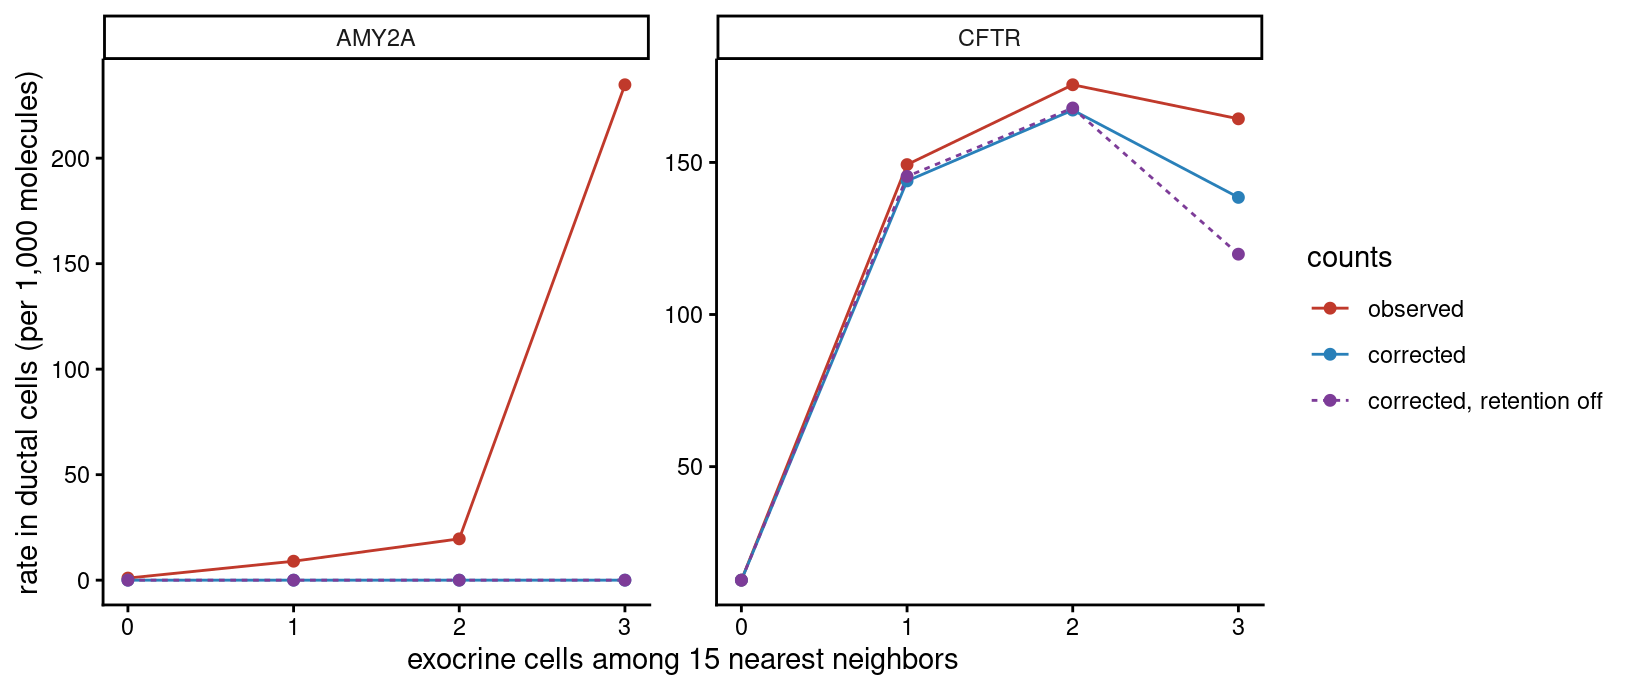
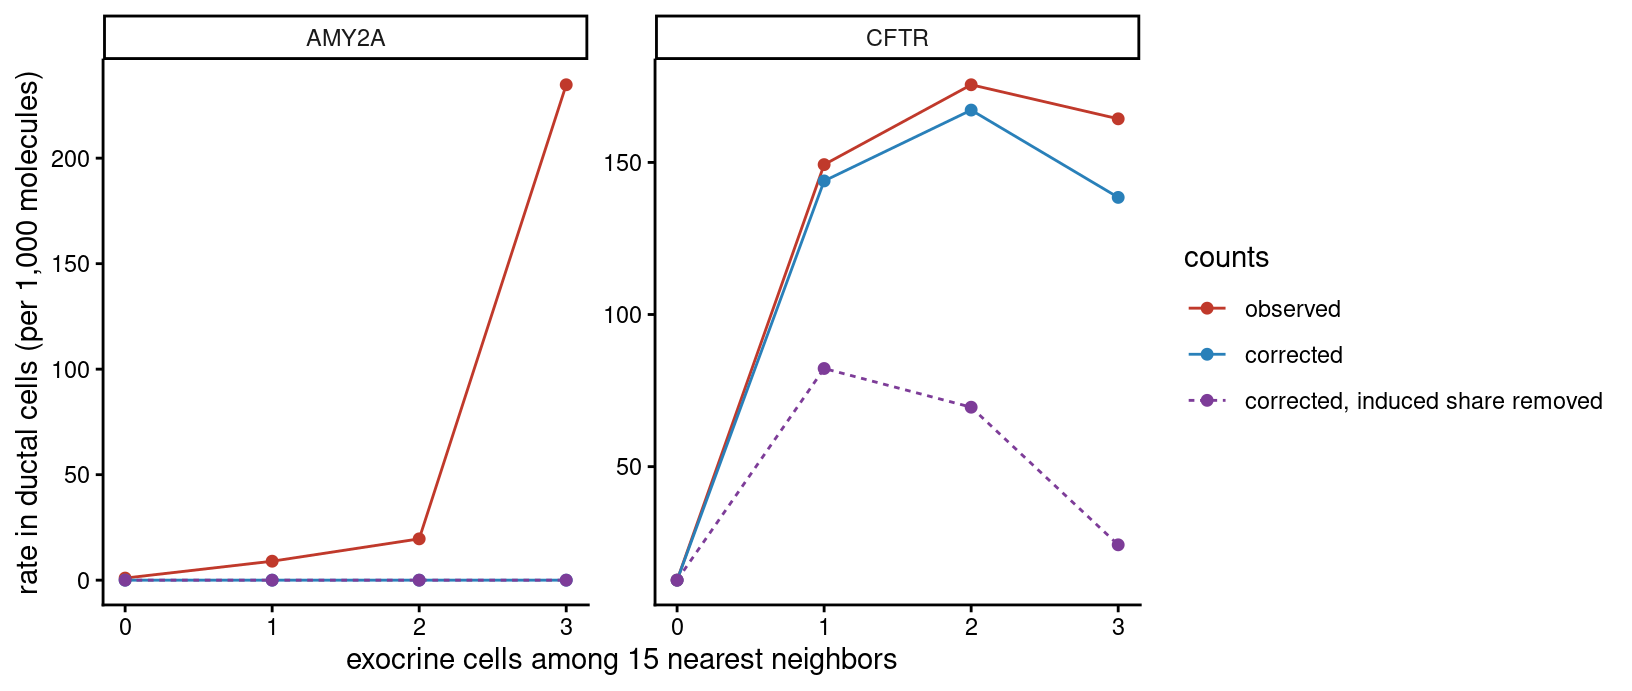
Pancreas generative examples on the fit-then-correct API

diff --git a/examples/xenium_pancreas_membrane_377_full/pancreas_generative.md b/examples/xenium_pancreas_membrane_377_full/pancreas_generative.md
@@ -34,7 +34,7 @@ annotation <- read.csv(file.path("annotations", "annotation.csv.gz"))
 cell_annotation <- setNames(annotation$merged_annotation, annotation$cell_id)
 
 ds <- cellAdmix("data", output_dir = "out", annotation = cell_annotation)
-fit <- ds$fit(nmf_variant = "invsqrt_kl")
+nmf_fit <- ds$fit(nmf_variant = "invsqrt_kl")
 ```
 
     ## Reusing cached run fit_manual_rank9_invsqrt_kl (parameters match)
@@ -47,7 +47,7 @@ using the rise of source-marker content with the number of source-type
 neighbors:
 
 ``` r
-audit <- fit$audit_admixture()
+audit <- nmf_fit$audit_admixture()
 ```
 
     ## Excluded 23 likely induced genes from marker panels (exposure-linked excess far above the source-profile expectation): ACTG2, ADAMTS1, APCDD1, APOLD1, BASP1, C5orf46, CA4, CAVIN1
@@ -95,21 +95,26 @@ ggplot(by_source, aes(reorder(source, admixed_molecules),
 
 ## Correcting with the generative model
 
-One call fits the model on all detected pairs (about twenty seconds on
-this dataset):
+The model is fitted on the audit’s detected pairs; the NMF fit is passed
+only to initialize the model’s expression programs from its
+factor-labeled molecules (`init = "clusters"` or `init = "pseudobulk"`
+fit without an NMF fit, with nearly identical results). The correction
+then derives from the fitted model:
 
 ``` r
-correction <- audit$correct_generative(num_threads = 8)
-correction
+model <- audit$fit_generative(init = nmf_fit, num_threads = 8)
+model
 ```
 
-    ## cellAdmix generative correction
+    ## cellAdmix generative model
     ##   pairs: 39 
-    ##   removed molecules (expected): 1,082,659 
-    ##   induced genes retained: 28
+    ##   induced genes retained: 28 
+    ##   removed molecules (expected): 1,193,699 
+    ##   initialization: nmf_factors
 
 ``` r
-before <- fit$counts()
+correction <- model$correct()
+before <- nmf_fit$counts()
 after <- correction$counts()
 ```
 
@@ -141,8 +146,8 @@ exposure as the exocrine contamination share grows, with smaller
 contributions from the other bordering types and the ambient background:
 
 ``` r
-comp_all <- correction$composition(target = "Ductal/tumor epithelial")
-cells_xy <- fit$cell_factors()
+comp_all <- model$composition(target = "Ductal/tumor epithelial")
+cells_xy <- nmf_fit$cell_factors()
 expo <- setNames(
   cellAdmixCore:::.celladmix_source_exposure_counts(
     cells_xy, cell_annotation, 15L)$counts[, "Exocrine epithelial"],
@@ -181,7 +186,7 @@ half exocrine content, while the ductal/tumor mass itself is nearly
 clean:
 
 ``` r
-comp <- correction$composition("Exocrine epithelial",
+comp <- model$composition("Exocrine epithelial",
   "Ductal/tumor epithelial")
 xy <- cells_xy[match(comp$cell_id, as.character(cells_xy$cell_id)), ]
 ggplot(cbind(comp, x = xy$x, y = xy$y), aes(x, y,
@@ -227,7 +232,7 @@ switched on themselves. On this tissue the retained set is led by the
 duct-cell program that ductal cells activate at acinar interfaces:
 
 ``` r
-induced <- correction$induced
+induced <- model$induced
 head(induced[order(-induced$excess),
   c("source", "target", "gene", "excess", "fold", "z")], 8)
 ```
@@ -303,18 +308,14 @@ The consequence is visible gene by gene. AMY2A sits on the diagonal
 above — the largest exocrine transfer channel — and the correction
 flattens its exposure gradient to the unexposed level. CFTR sits far
 above the diagonal, and the correction preserves its gradient, removing
-only the transferred share. Refitting with the induced term disabled
-separates the model’s two protective mechanisms: without it, CFTR keeps
-74% of its exposure-linked excess instead of 85%, because ductal cells
-also express CFTR natively and the own-expression programs reclaim much
-of the induced content on their own — the induced term protects the
-disproportionate remainder, and is the sole protection for induced genes
-the target does not express natively. AMY2A is identical in both fits:
-retention costs nothing on transferred content.
+only the transferred share. The same fitted model can also derive the
+opposite policy — `model$correct(retain_induced = FALSE)` removes the
+fitted induced share along with the contamination — which shows directly
+what retention protects, at no change on the transferred gene:
 
 ``` r
-correction_noind <- audit$correct_generative(name = "generative_noind",
-  use_induced = FALSE, num_threads = 8)
+correction_noind <- model$correct(name = "generative_noind",
+  retain_induced = FALSE)
 after_noind <- correction_noind$counts()
 tot <- Matrix::colSums(before[, duct_cells])
 bins <- pmin(expo[duct_cells], 3)
@@ -325,20 +326,20 @@ df <- do.call(rbind, lapply(c("AMY2A", "CFTR"), function(g) {
   do.call(rbind, lapply(list(
     list(m = before, lab = "observed"),
     list(m = after, lab = "corrected"),
-    list(m = after_noind, lab = "corrected, retention off")), function(a) {
+    list(m = after_noind, lab = "corrected, induced share removed")), function(a) {
     data.frame(gene = g, counts = a$lab, bin = 0:3,
       rate = as.numeric(rate_by_bin(a$m, g)))
   }))
 }))
 df$counts <- factor(df$counts,
-  levels = c("observed", "corrected", "corrected, retention off"))
+  levels = c("observed", "corrected", "corrected, induced share removed"))
 ggplot(df, aes(bin, rate, color = counts, linetype = counts)) +
   geom_line() + geom_point(size = 1.6) +
   facet_wrap(~gene, scales = "free_y") +
   scale_color_manual(values = c("observed" = "#c0392b",
-    "corrected" = "#2980b9", "corrected, retention off" = "#7d3c98")) +
+    "corrected" = "#2980b9", "corrected, induced share removed" = "#7d3c98")) +
   scale_linetype_manual(values = c("observed" = "solid",
-    "corrected" = "solid", "corrected, retention off" = "22")) +
+    "corrected" = "solid", "corrected, induced share removed" = "22")) +
   labs(x = "exocrine cells among 15 nearest neighbors",
     y = "rate in ductal cells (per 1,000 molecules)") +
   theme_classic(base_size = 11)

diff --git a/examples/xenium_pancreas_membrane_377_full/pancreas_generative_minimal.md b/examples/xenium_pancreas_membrane_377_full/pancreas_generative_minimal.md
@@ -16,28 +16,36 @@ annotation <- read.csv(file.path("annotations", "annotation.csv.gz"))
 cell_annotation <- setNames(annotation$merged_annotation, annotation$cell_id)
 
 ds <- cellAdmix("data", output_dir = "out", annotation = cell_annotation)
-fit <- ds$fit(nmf_variant = "invsqrt_kl")
+nmf_fit <- ds$fit(nmf_variant = "invsqrt_kl")
 ```
 
     ## Reusing cached run fit_manual_rank9_invsqrt_kl (parameters match)
 
-The audit measures the admixture; the generative correction removes it:
+The audit measures the admixture; the generative model is fitted on its
+detected pairs (the NMF fit serves only to initialize the model’s
+expression programs — `init = "clusters"` fits without it), and the
+correction derives from the fitted model:
 
 ``` r
-audit <- fit$audit_admixture()
+audit <- nmf_fit$audit_admixture()
 ```
 
     ## Excluded 23 likely induced genes from marker panels (exposure-linked excess far above the source-profile expectation): ACTG2, ADAMTS1, APCDD1, APOLD1, BASP1, C5orf46, CA4, CAVIN1
 
 ``` r
-correction <- audit$correct_generative(num_threads = 8)
-correction
+model <- audit$fit_generative(init = nmf_fit, num_threads = 8)
+model
 ```
 
-    ## cellAdmix generative correction
+    ## cellAdmix generative model
     ##   pairs: 39 
-    ##   removed molecules (expected): 1,082,659 
-    ##   induced genes retained: 28
+    ##   induced genes retained: 28 
+    ##   removed molecules (expected): 1,193,699 
+    ##   initialization: nmf_factors
+
+``` r
+correction <- model$correct()
+```
 
 The corrected gene-by-cell matrix drops into any downstream analysis:
 
@@ -48,11 +56,11 @@ dim(corrected_counts)
 
     ## [1]    377 140335
 
-The correction keeps the genes whose exposure-linked excess reflects the
+The model keeps the genes whose exposure-linked excess reflects the
 cells’ own response to their neighbors rather than transferred material:
 
 ``` r
-head(correction$induced[order(-correction$induced$excess), ], 5)
+head(model$induced[order(-model$induced$excess), ], 5)
 ```
 
     ##                 source                  target   gene     excess   expected
